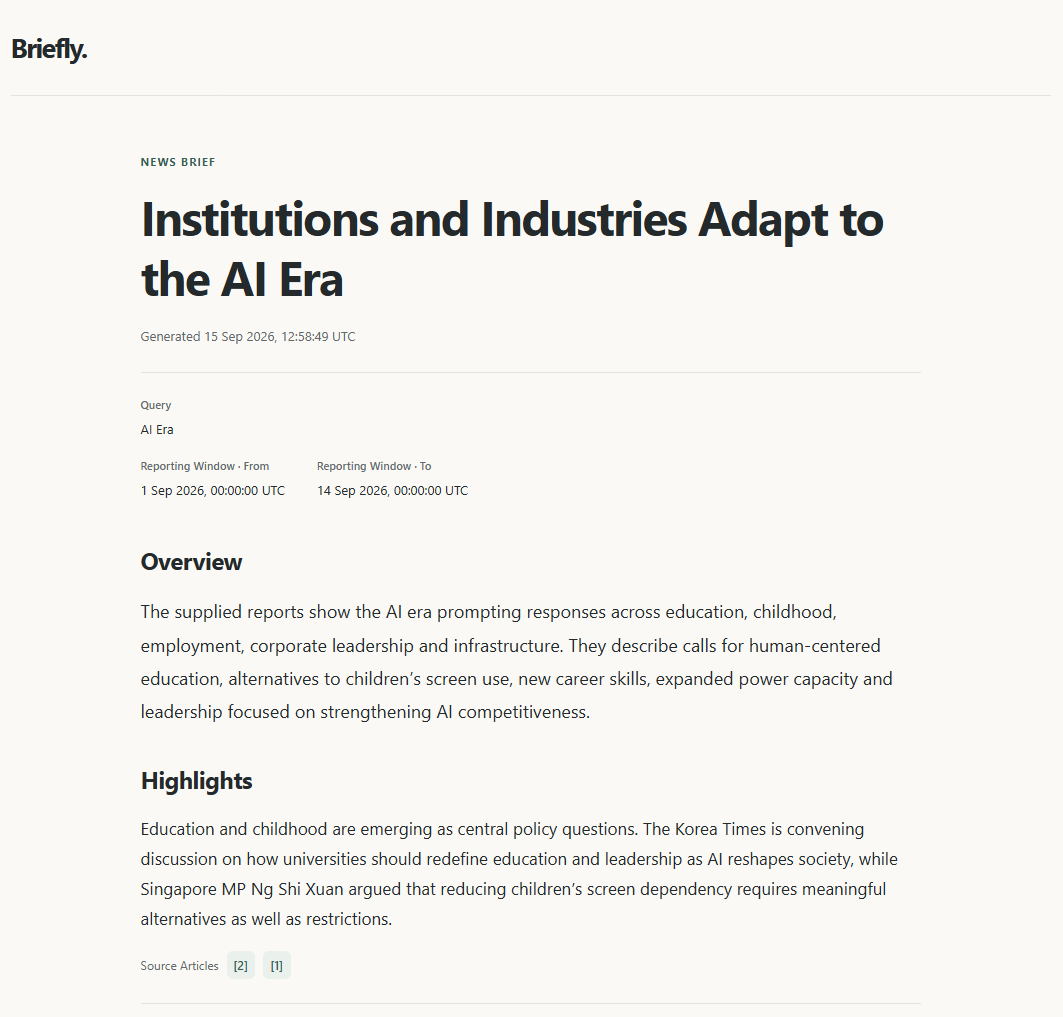
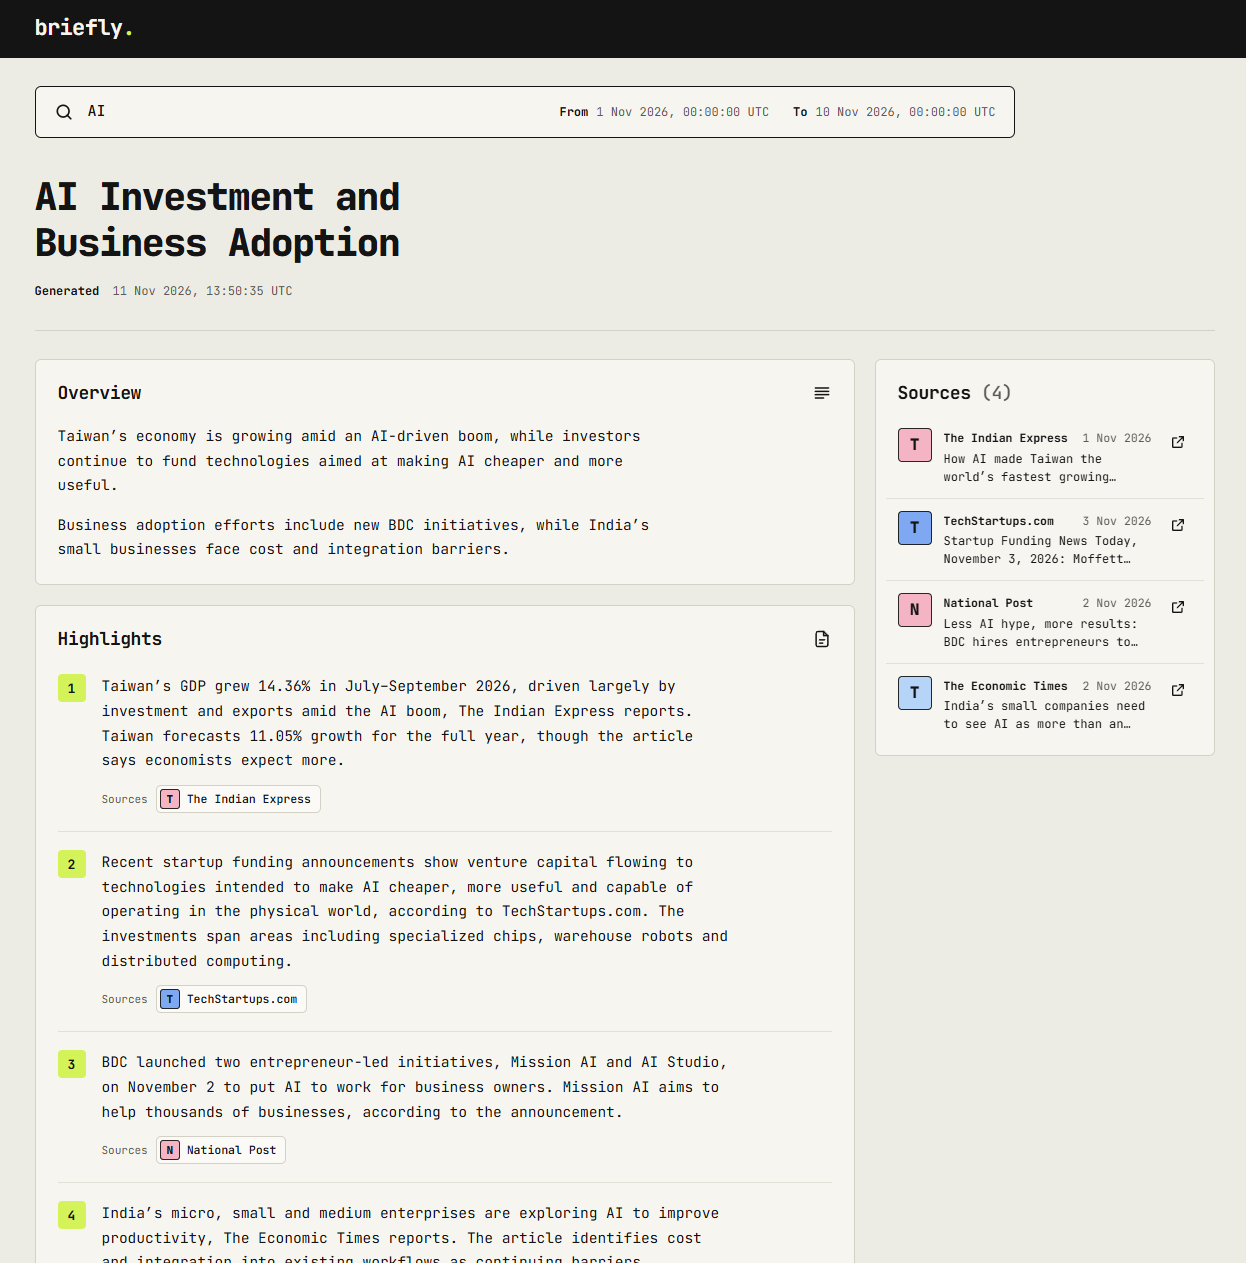
docs(#25): update the README screenshot for the redesigned News Brief page

diff --git a/README.md b/README.md
@@ -175,11 +175,7 @@ curl -X POST http://localhost:8080/api/briefs/generate/html \
 
 Open `brief.html` in a browser. Errors from this endpoint are still JSON.
 
-![News Brief page showing the title, Brief Criteria, Overview, and a Highlight with its citations](docs/images/news-brief-page.png)
-
-The page ends with a card for each Source Article:
-
-![Source Article cards with Citation IDs, Publishers, titles, and descriptions](docs/images/news-brief-sources.png)
+![News Brief page showing the Query and Reporting Window, the title, the Overview, Highlights with their citations, and the Sources panel](docs/images/news-brief-page.png)
 
 ### Errors
 
